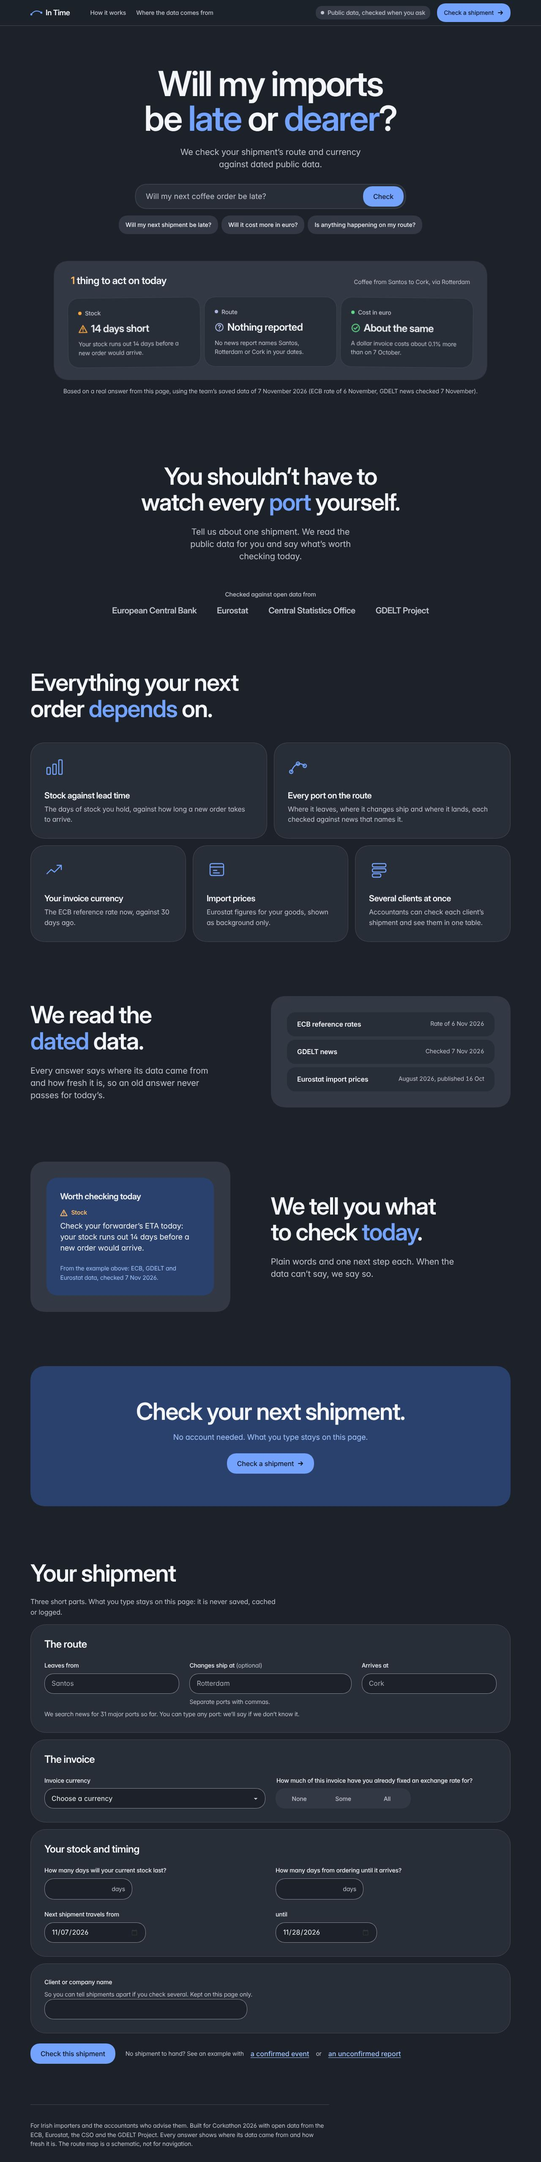
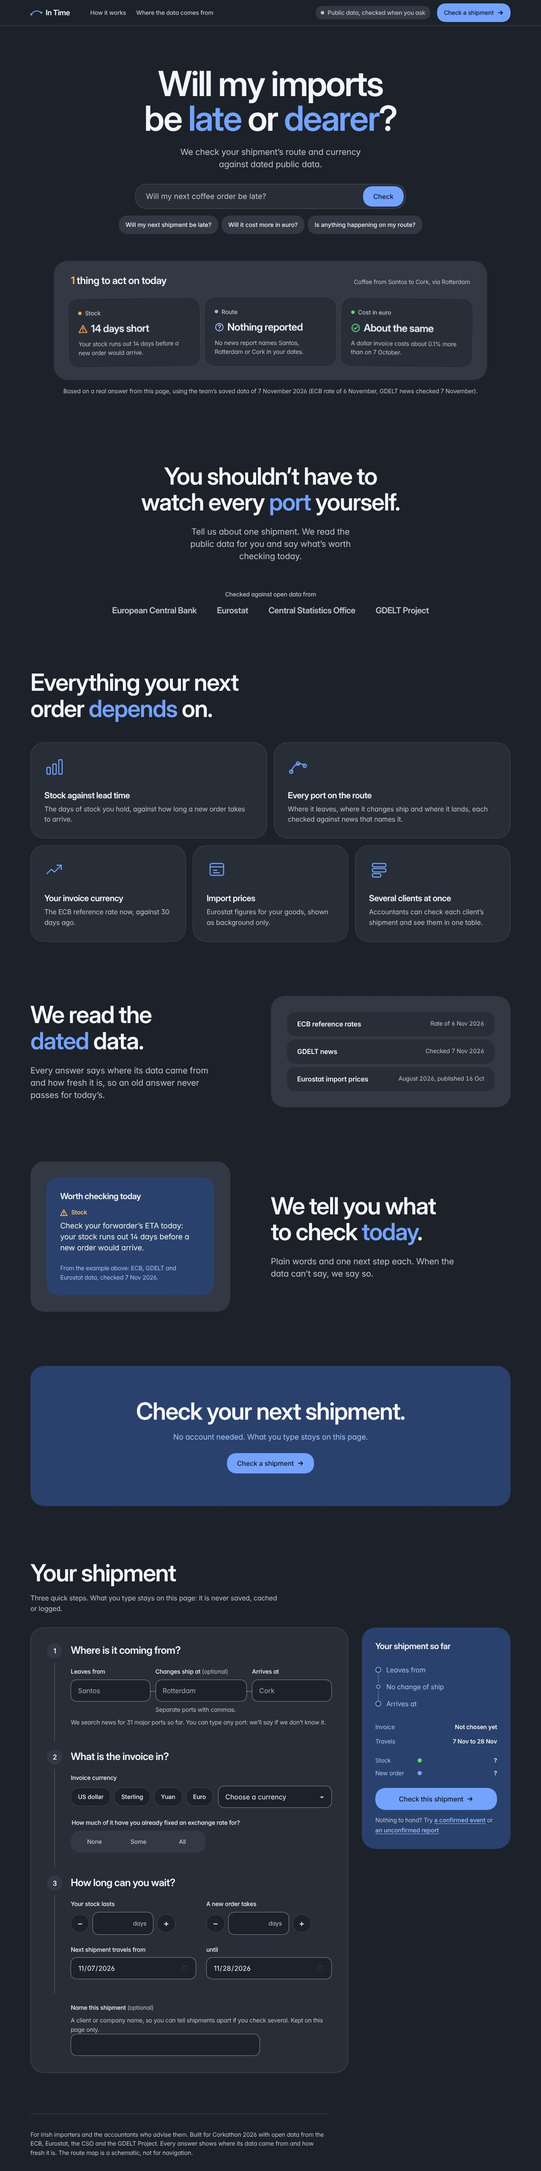
Rebuild the shipment form as three steps with a live shipment ticket
Khoa: the Check a shipment form was "still so rigid and all the components
look bad".
- Four stacked boxes become one card with three numbered steps joined by a
  line (route, invoice, timing); a step's number turns blue when it is done.
- A ticket beside the steps (below on phones) fills in as you type: the route
  as stops, invoice, travel dates, and stock against order time as two bars.
  The submit button and the example links move into it. Display only: the
  form stays the source of truth; the ticket is not a live region.
- Route stops are joined by dotted lines; quick chips for USD, GBP, CNY and
  EUR set the currency list; minus and plus buttons around the day fields.
- Fields are soft rounded rectangles (16px corners, 52px tall) instead of
  pills; the segmented control is 44px tall.
- Branch brought up to date with main (#38 to #45).

Checks: 132 tests OK; axe 0 violations at 1280 and 390, light and dark,
landing and answer; no console errors.

Claude-Session: https://claude.ai/code/session_01W2xLkForaTsgKoAT3qMgDq

diff --git a/web/index.html b/web/index.html
@@ -129,99 +129,126 @@
     </div>
 
     <div id="shipment" class="shipment">
-      <p class="sub">Three short parts. What you type stays on this page: it is never saved, cached or logged.</p>
+      <p class="sub">Three quick steps. What you type stays on this page: it is never saved, cached or logged.</p>
+      <div class="builder">
+        <div class="steps">
 
-      <fieldset class="group" id="g-route">
-        <legend>The route</legend>
-        <div class="rail">
-          <div class="field stop">
-            <label for="origin_port">Leaves from</label>
-            <span class="field-error" id="origin_port-error" hidden></span>
-            <input id="origin_port" name="origin_port" list="ports" autocomplete="off" aria-describedby="origin_port-error" placeholder="Santos">
-          </div>
-          <div class="field stop">
-            <label for="transshipment_ports">Changes ship at <span class="opt">(optional)</span></label>
-            <span class="field-error" id="transshipment_ports-error" hidden></span>
-            <input id="transshipment_ports" name="transshipment_ports" autocomplete="off" aria-describedby="transshipment_ports-hint transshipment_ports-error" placeholder="Rotterdam">
-            <span class="hint" id="transshipment_ports-hint">Separate ports with commas.</span>
-          </div>
-          <div class="field stop">
-            <label for="destination_port">Arrives at</label>
-            <span class="field-error" id="destination_port-error" hidden></span>
-            <input id="destination_port" name="destination_port" list="ports" autocomplete="off" aria-describedby="destination_port-error" placeholder="Cork">
-          </div>
-        </div>
-        <p class="hint" id="ports-note">We search news for 31 major ports so far. You can type any port: we’ll say if we don’t know it.</p>
+          <fieldset class="step" id="g-route">
+            <legend><span class="step-n" aria-hidden="true">1</span>Where is it coming from?</legend>
+            <div class="rail">
+              <div class="field stop">
+                <label for="origin_port">Leaves from</label>
+                <span class="field-error" id="origin_port-error" hidden></span>
+                <input id="origin_port" name="origin_port" list="ports" autocomplete="off" aria-describedby="origin_port-error" placeholder="Santos">
+              </div>
+              <div class="field stop stop-mid">
+                <label for="transshipment_ports">Changes ship at <span class="opt">(optional)</span></label>
+                <span class="field-error" id="transshipment_ports-error" hidden></span>
+                <input id="transshipment_ports" name="transshipment_ports" autocomplete="off" aria-describedby="transshipment_ports-hint transshipment_ports-error" placeholder="Rotterdam">
+                <span class="hint" id="transshipment_ports-hint">Separate ports with commas.</span>
+              </div>
+              <div class="field stop">
+                <label for="destination_port">Arrives at</label>
+                <span class="field-error" id="destination_port-error" hidden></span>
+                <input id="destination_port" name="destination_port" list="ports" autocomplete="off" aria-describedby="destination_port-error" placeholder="Cork">
+              </div>
+            </div>
+            <p class="hint" id="ports-note">We search news for 31 major ports so far. You can type any port: we’ll say if we don’t know it.</p>
         <datalist id="ports">
           <option value="Algeciras"></option><option value="Antwerp"></option><option value="Bremerhaven"></option><option value="Busan"></option><option value="Colombo"></option><option value="Cork"></option><option value="Dublin"></option><option value="Durban"></option><option value="Felixstowe"></option><option value="Hamburg"></option><option value="Ho Chi Minh City"></option><option value="Hong Kong"></option><option value="Jebel Ali"></option><option value="Le Havre"></option><option value="Liverpool"></option><option value="Los Angeles"></option><option value="Mombasa"></option><option value="New York"></option><option value="Nhava Sheva"></option><option value="Ningbo"></option><option value="Piraeus"></option><option value="Port Said"></option><option value="Ringaskiddy"></option><option value="Rotterdam"></option><option value="Santos"></option><option value="Savannah"></option><option value="Shanghai"></option><option value="Shenzhen"></option><option value="Singapore"></option><option value="Southampton"></option><option value="Valencia"></option>
         </datalist>
-      </fieldset>
+          </fieldset>
 
-      <fieldset class="group" id="g-money">
-        <legend>The invoice</legend>
-        <div class="cols">
-          <div class="field">
-            <label for="currency">Invoice currency</label>
-            <span class="field-error" id="currency-error" hidden></span>
-            <select id="currency" name="currency" aria-describedby="currency-error"><option value="">Choose a currency</option><option value="USD">US dollars (USD)</option><option value="GBP">Pounds sterling (GBP)</option><option value="CNY">Chinese yuan (CNY)</option><option value="JPY">Japanese yen (JPY)</option><option value="CHF">Swiss francs (CHF)</option><option value="EUR">Euro (EUR)</option><optgroup label="More ECB currencies"><option value="SEK">Swedish kronor (SEK)</option><option value="DKK">Danish kroner (DKK)</option><option value="NOK">Norwegian kroner (NOK)</option><option value="PLN">Polish zloty (PLN)</option><option value="CZK">Czech koruna (CZK)</option><option value="HUF">Hungarian forint (HUF)</option><option value="RON">Romanian leu (RON)</option><option value="CAD">Canadian dollars (CAD)</option><option value="AUD">Australian dollars (AUD)</option><option value="NZD">New Zealand dollars (NZD)</option><option value="INR">Indian rupees (INR)</option><option value="KRW">South Korean won (KRW)</option><option value="SGD">Singapore dollars (SGD)</option><option value="HKD">Hong Kong dollars (HKD)</option><option value="THB">Thai baht (THB)</option><option value="TRY">Turkish lira (TRY)</option><option value="BRL">Brazilian real (BRL)</option><option value="MXN">Mexican pesos (MXN)</option><option value="ZAR">South African rand (ZAR)</option></optgroup></select>
-          </div>
-          <fieldset class="field seg-wrap" id="fixed_rate_share" aria-describedby="fixed_rate_share-error">
-            <legend>How much of this invoice have you already fixed an exchange rate for?</legend>
-            <span class="field-error" id="fixed_rate_share-error" hidden></span>
-            <div class="seg">
-              <label><input type="radio" name="fixed_rate_share" value="none"><span>None</span></label>
-              <label><input type="radio" name="fixed_rate_share" value="some"><span>Some</span></label>
-              <label><input type="radio" name="fixed_rate_share" value="all"><span>All</span></label>
+          <fieldset class="step" id="g-money">
+            <legend><span class="step-n" aria-hidden="true">2</span>What is the invoice in?</legend>
+            <div class="field">
+              <label for="currency">Invoice currency</label>
+              <span class="field-error" id="currency-error" hidden></span>
+              <div class="cur-row">
+                <ul class="cur-quick" aria-label="Common currencies">
+                  <li><button type="button" class="cchip" data-cur="USD" aria-pressed="false">US dollar</button></li>
+                  <li><button type="button" class="cchip" data-cur="GBP" aria-pressed="false">Sterling</button></li>
+                  <li><button type="button" class="cchip" data-cur="CNY" aria-pressed="false">Yuan</button></li>
+                  <li><button type="button" class="cchip" data-cur="EUR" aria-pressed="false">Euro</button></li>
+                </ul>
+                <select id="currency" name="currency" aria-describedby="currency-error"><option value="">Choose a currency</option><option value="USD">US dollars (USD)</option><option value="GBP">Pounds sterling (GBP)</option><option value="CNY">Chinese yuan (CNY)</option><option value="JPY">Japanese yen (JPY)</option><option value="CHF">Swiss francs (CHF)</option><option value="EUR">Euro (EUR)</option><optgroup label="More ECB currencies"><option value="SEK">Swedish kronor (SEK)</option><option value="DKK">Danish kroner (DKK)</option><option value="NOK">Norwegian kroner (NOK)</option><option value="PLN">Polish zloty (PLN)</option><option value="CZK">Czech koruna (CZK)</option><option value="HUF">Hungarian forint (HUF)</option><option value="RON">Romanian leu (RON)</option><option value="CAD">Canadian dollars (CAD)</option><option value="AUD">Australian dollars (AUD)</option><option value="NZD">New Zealand dollars (NZD)</option><option value="INR">Indian rupees (INR)</option><option value="KRW">South Korean won (KRW)</option><option value="SGD">Singapore dollars (SGD)</option><option value="HKD">Hong Kong dollars (HKD)</option><option value="THB">Thai baht (THB)</option><option value="TRY">Turkish lira (TRY)</option><option value="BRL">Brazilian real (BRL)</option><option value="MXN">Mexican pesos (MXN)</option><option value="ZAR">South African rand (ZAR)</option></optgroup></select>
+              </div>
+            </div>
+            <fieldset class="field seg-wrap" id="fixed_rate_share" aria-describedby="fixed_rate_share-error">
+              <legend>How much of it have you already fixed an exchange rate for?</legend>
+              <span class="field-error" id="fixed_rate_share-error" hidden></span>
+              <div class="seg">
+                <label><input type="radio" name="fixed_rate_share" value="none"><span>None</span></label>
+                <label><input type="radio" name="fixed_rate_share" value="some"><span>Some</span></label>
+                <label><input type="radio" name="fixed_rate_share" value="all"><span>All</span></label>
+              </div>
+            </fieldset>
+            <div class="field" id="pct-field" hidden>
+              <label for="fixed_rate_pct">Roughly what share have you fixed?</label>
+              <span class="hint" id="fixed_rate_pct-hint">Optional, for example 50. Without it we can’t work out your euro cost.</span>
+              <span class="field-error" id="fixed_rate_pct-error" hidden></span>
+              <span class="suffix"><input id="fixed_rate_pct" name="fixed_rate_pct" inputmode="decimal" aria-describedby="fixed_rate_pct-hint fixed_rate_pct-error"><span aria-hidden="true">%</span></span>
             </div>
           </fieldset>
-        </div>
-        <div class="field" id="pct-field" hidden>
-          <label for="fixed_rate_pct">Roughly what share have you fixed?</label>
-          <span class="hint" id="fixed_rate_pct-hint">Optional, for example 50. Without it we can’t work out your euro cost.</span>
-          <span class="field-error" id="fixed_rate_pct-error" hidden></span>
-          <span class="suffix"><input id="fixed_rate_pct" name="fixed_rate_pct" inputmode="decimal" aria-describedby="fixed_rate_pct-hint fixed_rate_pct-error"><span aria-hidden="true">%</span></span>
-        </div>
-      </fieldset>
 
-      <fieldset class="group" id="g-time">
-        <legend>Your stock and timing</legend>
-        <div class="cols">
-          <div class="field">
-            <label for="stock_days">How many days will your current stock last?</label>
-            <span class="field-error" id="stock_days-error" hidden></span>
-            <span class="suffix"><input id="stock_days" name="stock_days" inputmode="numeric" aria-describedby="stock_days-error"><span aria-hidden="true">days</span></span>
-          </div>
-          <div class="field">
-            <label for="lead_time_days">How many days from ordering until it arrives?</label>
-            <span class="field-error" id="lead_time_days-error" hidden></span>
-            <span class="suffix"><input id="lead_time_days" name="lead_time_days" inputmode="numeric" aria-describedby="lead_time_days-error"><span aria-hidden="true">days</span></span>
-          </div>
-          <div class="field">
-            <label for="window_start">Next shipment travels from</label>
-            <span class="field-error" id="window_start-error" hidden></span>
-            <input id="window_start" name="window_start" type="date" aria-describedby="window_start-error">
-          </div>
-          <div class="field">
-            <label for="window_end">until</label>
-            <span class="field-error" id="window_end-error" hidden></span>
-            <input id="window_end" name="window_end" type="date" aria-describedby="window_end-error">
+          <fieldset class="step" id="g-time">
+            <legend><span class="step-n" aria-hidden="true">3</span>How long can you wait?</legend>
+            <div class="pair">
+              <div class="field">
+                <label for="stock_days">Your stock lasts</label>
+                <span class="field-error" id="stock_days-error" hidden></span>
+                <span class="stepper"><button type="button" class="stp" data-step="-1" data-for="stock_days" aria-label="One day less stock">−</button><span class="suffix"><input id="stock_days" name="stock_days" inputmode="numeric" aria-describedby="stock_days-error"><span aria-hidden="true">days</span></span><button type="button" class="stp" data-step="1" data-for="stock_days" aria-label="One day more stock">+</button></span>
+              </div>
+              <div class="field">
+                <label for="lead_time_days">A new order takes</label>
+                <span class="field-error" id="lead_time_days-error" hidden></span>
+                <span class="stepper"><button type="button" class="stp" data-step="-1" data-for="lead_time_days" aria-label="One day shorter order time">−</button><span class="suffix"><input id="lead_time_days" name="lead_time_days" inputmode="numeric" aria-describedby="lead_time_days-error"><span aria-hidden="true">days</span></span><button type="button" class="stp" data-step="1" data-for="lead_time_days" aria-label="One day longer order time">+</button></span>
+              </div>
+            </div>
+            <div class="pair dates">
+              <div class="field">
+                <label for="window_start">Next shipment travels from</label>
+                <span class="field-error" id="window_start-error" hidden></span>
+                <input id="window_start" name="window_start" type="date" aria-describedby="window_start-error">
+              </div>
+              <div class="field">
+                <label for="window_end">until</label>
+                <span class="field-error" id="window_end-error" hidden></span>
+                <input id="window_end" name="window_end" type="date" aria-describedby="window_end-error">
+              </div>
+            </div>
+          </fieldset>
+
+          <div class="step step-name">
+            <div class="field name-field">
+              <label for="importer">Name this shipment <span class="opt">(optional)</span></label>
+              <span class="hint" id="importer-hint">A client or company name, so you can tell shipments apart if you check several. Kept on this page only.</span>
+              <span class="field-error" id="importer-error" hidden></span>
+              <input id="importer" name="importer" autocomplete="organization" aria-describedby="importer-hint importer-error">
+            </div>
           </div>
         </div>
-      </fieldset>
 
-      <div class="field name-field">
-        <label for="importer">Client or company name</label>
-        <span class="hint" id="importer-hint">So you can tell shipments apart if you check several. Kept on this page only.</span>
-        <span class="field-error" id="importer-error" hidden></span>
-        <input id="importer" name="importer" autocomplete="organization" aria-describedby="importer-hint importer-error">
-      </div>
-
-      <div class="actions">
-        <button type="submit" class="btn" id="submit">Check this shipment</button>
-        <span class="or">No shipment to hand? See an example with</span>
-        <button type="button" class="linkbtn" data-example="alert">a confirmed event</button>
-        <span class="or">or</span>
-        <button type="button" class="linkbtn" data-example="insufficient">an unconfirmed report</button>
+        <aside class="ticket" aria-labelledby="ticket-h">
+          <h3 id="ticket-h" class="ticket-h">Your shipment so far</h3>
+          <ol class="t-route" id="t-route" aria-label="Route">
+            <li data-k="origin_port"><span class="t-dot" aria-hidden="true"></span><span class="t-port" data-empty="Leaves from">Leaves from</span></li>
+            <li data-k="transshipment_ports" class="t-mid"><span class="t-dot" aria-hidden="true"></span><span class="t-port" data-empty="No change of ship">No change of ship</span></li>
+            <li data-k="destination_port"><span class="t-dot" aria-hidden="true"></span><span class="t-port" data-empty="Arrives at">Arrives at</span></li>
+          </ol>
+          <dl class="t-facts">
+            <div><dt>Invoice</dt><dd id="t-money">Not chosen yet</dd></div>
+            <div><dt>Travels</dt><dd id="t-dates">Not set yet</dd></div>
+          </dl>
+          <div class="t-runway" aria-hidden="true">
+            <div class="t-bar"><span class="t-bar-label">Stock</span><span class="t-fill t-stock" id="t-stock"></span><span class="t-val" id="t-stock-v">?</span></div>
+            <div class="t-bar"><span class="t-bar-label">New order</span><span class="t-fill t-lead" id="t-lead"></span><span class="t-val" id="t-lead-v">?</span></div>
+          </div>
+          <div class="actions">
+            <button type="submit" class="btn" id="submit">Check this shipment<svg viewBox="0 0 16 16" aria-hidden="true" focusable="false"><path d="M3 8h10M9 4l4 4-4 4"/></svg></button>
+            <p class="t-try"><span class="or">Nothing to hand? Try</span> <button type="button" class="linkbtn" data-example="alert">a confirmed event</button> <span class="or">or</span> <button type="button" class="linkbtn" data-example="insufficient">an unconfirmed report</button></p>
+          </div>
+        </aside>
       </div>
     </div>
     <p class="status" id="status" role="status" aria-live="polite"></p>

diff --git a/web/styles.css b/web/styles.css
@@ -199,14 +199,8 @@ h1{font-size:var(--text-6xl);line-height:1;letter-spacing:-.035em;max-width:13ch
 #ship-line dt{font-size:var(--text-xs);color:var(--muted-foreground);font-weight:500}
 #ship-line dd{margin:0;font-size:var(--text-sm);font-weight:600}
 
-.shipment{margin-top:var(--s-5);display:grid;gap:var(--s-4)}
+.shipment{margin-top:var(--s-4);display:grid;gap:var(--s-6)}
 .sub{margin:0;font-size:var(--text-base);color:var(--muted-foreground);max-width:60ch}
-.group{margin:0;min-width:0;border:1px solid var(--border);border-radius:var(--r-card-lg);background:var(--card);padding:var(--s-6);box-shadow:var(--shadow-1)}
-.group>legend{float:left;width:100%;padding:0;margin-bottom:var(--s-5);font:600 var(--text-2xl)/1.2 var(--font-display);letter-spacing:-.02em}
-.group>legend+*{clear:both}
-@media(max-width:640px){.group{padding:var(--s-5);border-radius:var(--r-card)}}
-.rail{display:grid;gap:var(--s-4)}
-@media(min-width:820px){.rail{grid-template-columns:1fr 1.2fr 1fr;gap:var(--s-5)}}
 .cols{display:grid;gap:var(--s-5)}
 @media(min-width:820px){.cols{grid-template-columns:1fr 1fr}}
 .field{margin:0;min-width:0}
@@ -214,7 +208,7 @@ fieldset.field{border:0;padding:0}
 label,.field>legend{display:block;font-weight:500;font-size:var(--text-sm);margin-bottom:var(--s-2)}
 .opt{font-weight:400;color:var(--muted-foreground)}
 .hint{display:block;color:var(--muted-foreground);font-size:var(--text-sm);margin:var(--s-2) 0 0}
-input,select{font:inherit;color:var(--foreground);background:var(--background);border:1px solid var(--input);border-radius:var(--pill);padding:0 var(--s-4);min-height:var(--h-lg);width:100%;transition:border-color var(--dur-1) var(--ease),box-shadow var(--dur-1) var(--ease)}
+input,select{font:inherit;color:var(--foreground);background:var(--background);border:1px solid var(--input);border-radius:var(--r-field);padding:0 var(--s-4);min-height:52px;width:100%;transition:border-color var(--dur-1) var(--ease),box-shadow var(--dur-1) var(--ease)}
 input::placeholder{color:var(--muted-foreground);opacity:.85}
 input:hover,select:hover{border-color:var(--muted-foreground)}
 input:focus-visible,select:focus-visible{outline:0;border-color:var(--ring);box-shadow:0 0 0 3px oklch(from var(--ring) l c h / .3)}
@@ -223,13 +217,11 @@ select{appearance:none;cursor:pointer;background-image:linear-gradient(45deg,tra
 option,optgroup{background:var(--card);color:var(--foreground)}
 input[type=date]{max-width:15rem}
 @media (prefers-color-scheme:dark){::-webkit-calendar-picker-indicator{filter:invert(.8)}}
-.suffix{display:flex;align-items:center;gap:var(--s-2);max-width:13rem;border:1px solid var(--input);border-radius:var(--pill);background:var(--background);padding-right:var(--s-4);corner-shape:var(--corner-shape);transition:border-color var(--dur-1) var(--ease),box-shadow var(--dur-1) var(--ease)}
+.suffix{display:flex;align-items:center;gap:var(--s-2);max-width:13rem;border:1px solid var(--input);border-radius:var(--r-field);background:var(--background);padding-right:var(--s-4);corner-shape:var(--corner-shape);transition:border-color var(--dur-1) var(--ease),box-shadow var(--dur-1) var(--ease)}
 .suffix:hover{border-color:var(--muted-foreground)}
 .suffix:focus-within{border-color:var(--ring);box-shadow:0 0 0 3px oklch(from var(--ring) l c h / .3)}
 .suffix input{border:0;background:transparent;box-shadow:none!important;min-width:0}
 .suffix span{color:var(--muted-foreground);font-size:var(--text-sm)}
-.name-field{background:var(--card);border:1px solid var(--border);border-radius:var(--r-card-lg);padding:var(--s-6);box-shadow:var(--shadow-1)}
-.name-field input{max-width:30rem}
 
 /* Tabs-style segmented control: a filled pill that glides on a soft bar (CSS only) */
 .seg{position:relative;display:inline-grid;grid-template-columns:repeat(3,minmax(0,1fr));background:var(--secondary);border-radius:var(--pill);padding:var(--s-1);min-width:min(100%,20rem)}
@@ -239,7 +231,7 @@ input[type=date]{max-width:15rem}
 .seg:has(label:nth-child(3) input:checked)::before{transform:translateX(200%)}
 .seg label{position:relative;z-index:1;margin:0;font-weight:500;cursor:pointer}
 .seg input{position:absolute;inset:0;opacity:0;width:100%;height:100%;margin:0;min-height:0;cursor:pointer}
-.seg span{display:grid;place-items:center;min-height:40px;padding:0 var(--s-4);border-radius:var(--pill);color:var(--muted-foreground);transition:color var(--dur-2) var(--ease)}
+.seg span{display:grid;place-items:center;min-height:44px;padding:0 var(--s-4);border-radius:var(--pill);color:var(--muted-foreground);transition:color var(--dur-2) var(--ease)}
 .seg input:checked+span{color:var(--foreground);font-weight:600}
 .seg input:focus-visible+span{outline:2px solid var(--ring);outline-offset:1px}
 .seg label:hover input:not(:checked)+span{color:var(--foreground)}
@@ -633,3 +625,79 @@ h1 em,.section-h em{font-style:normal;color:var(--brand)}
 .dp-foot{margin:var(--s-5) 0 0;font-size:var(--text-sm);color:var(--dp-muted)}
 .cta{display:flex;flex-direction:column;align-items:center;gap:var(--s-4);text-align:center;padding:clamp(var(--s-7),6vw,var(--s-9)) var(--s-5);border-radius:var(--r-card-lg);corner-shape:var(--corner-shape)}
 .cta p{margin:0 0 var(--s-2);color:var(--dp-muted);font-size:var(--text-lg)}
+
+/* ---------- Shipment builder: three numbered steps on the left, a live shipment ticket on the right ----------
+   Replaces four stacked boxes. Steps sit on one card joined by a thin line; the ticket fills in as you type. */
+.builder{display:grid;gap:var(--s-5);align-items:start}
+@media(min-width:1000px){.builder{grid-template-columns:minmax(0,1fr) 22rem;gap:var(--s-6)}}
+.steps{position:relative;display:grid;gap:var(--s-2);padding:clamp(var(--s-5),3vw,var(--s-7));background:var(--card);border:1px solid var(--border);border-radius:var(--r-card-lg);box-shadow:var(--shadow-2);corner-shape:var(--corner-shape)}
+.step{position:relative;margin:0;min-width:0;border:0;padding:0 0 var(--s-7) 56px}
+.step:last-child{padding-bottom:0}
+.step::before{content:"";position:absolute;left:17px;top:44px;bottom:var(--s-3);width:2px;border-radius:2px;background:var(--border)}
+.step:last-child::before{display:none}
+.step:focus-within::before,.step.done::before{background:color-mix(in oklch,var(--brand) 55%,var(--border))}
+.step>legend{float:left;width:100%;padding:0;margin:0 0 var(--s-5);font:600 var(--text-2xl)/1.25 var(--font-display);letter-spacing:-.02em}
+.step>legend+*{clear:both}
+.step-n{position:absolute;left:0;top:-2px;display:grid;place-items:center;width:36px;height:36px;border-radius:50%;background:var(--secondary);color:var(--foreground);font:600 var(--text-base)/1 var(--font-sans);transition:background var(--dur-2) var(--ease),color var(--dur-2) var(--ease)}
+.step:focus-within .step-n,.step.done .step-n{background:var(--primary);color:var(--primary-foreground)}
+@media(max-width:640px){.step{padding-left:0}.step::before{display:none}.step-n{position:static;display:inline-grid;width:30px;height:30px;margin-right:var(--s-3);vertical-align:2px;font-size:var(--text-sm)}}
+.step-name{padding-bottom:0}
+.step-name input{max-width:28rem}
+
+/* Route: three stops joined by a dotted line */
+.rail{display:grid;gap:var(--s-4)}
+@media(min-width:760px){.rail{grid-template-columns:1fr 1.15fr 1fr;gap:var(--s-3)}
+  .stop{position:relative}
+  .stop:not(:last-child)::after{content:"";position:absolute;right:calc(-1 * var(--s-3));top:calc(var(--s-2) + 1.4em + 26px);width:var(--s-3);border-top:2px dotted var(--input)}}
+.step .field+.field,.step .field+fieldset.field,.step fieldset.field+.field{margin-top:var(--s-5)}
+.rail .field+.field{margin-top:0}
+
+/* Currency: quick chips beside the full list */
+.cur-row{display:flex;flex-wrap:wrap;align-items:center;gap:var(--s-2) var(--s-3)}
+.cur-quick{list-style:none;display:flex;flex-wrap:wrap;gap:var(--s-2);margin:0;padding:0}
+.cchip{font:500 var(--text-sm)/1 var(--font-sans);min-height:44px;padding:0 var(--s-4);border:1px solid var(--border);border-radius:var(--pill);background:var(--background);color:var(--foreground);cursor:pointer;transition:background var(--dur-1) var(--ease),border-color var(--dur-1) var(--ease),transform var(--dur-1) var(--ease);corner-shape:var(--corner-shape)}
+.cchip:hover{border-color:var(--input)}
+.cchip:active{transform:scale(.96)}
+.cchip[aria-pressed=true]{background:var(--brand-soft);border-color:var(--brand);color:var(--brand-ink);font-weight:600}
+.cur-row select{flex:1 1 14rem;width:auto;min-width:12rem}
+
+/* Days: − and + around the number */
+.pair{display:grid;gap:var(--s-5)}
+@media(min-width:640px){.pair{grid-template-columns:1fr 1fr}}
+.pair+.pair{margin-top:var(--s-5)}
+.pair .field+.field{margin-top:0}
+.stepper{display:inline-flex;align-items:center;gap:var(--s-2)}
+.stepper .suffix{max-width:9rem}
+.stepper .suffix input{text-align:center;font-variant-numeric:tabular-nums;font-weight:600;font-size:var(--text-lg)}
+.stp{display:grid;place-items:center;width:44px;height:44px;flex:none;border:1px solid var(--border);border-radius:50%;background:var(--background);color:var(--foreground);font:500 var(--text-xl)/1 var(--font-sans);cursor:pointer;transition:background var(--dur-1) var(--ease),transform var(--dur-1) var(--ease)}
+.stp:hover{background:var(--secondary)}
+.stp:active{transform:scale(.92)}
+.dates input[type=date]{max-width:none}
+
+/* The ticket: a live summary in the soft brand tint; sticks beside the steps on wide screens */
+.ticket{display:grid;gap:var(--s-5);padding:var(--s-6);background:var(--brand-soft);border-radius:var(--r-card-lg);corner-shape:var(--corner-shape)}
+@media(min-width:1000px){.ticket{position:sticky;top:84px}}
+.ticket-h{font:600 var(--text-xl)/1.2 var(--font-display);letter-spacing:-.02em}
+.t-route{list-style:none;margin:0;padding:0;display:grid;gap:0}
+.t-route li{position:relative;display:flex;align-items:center;gap:var(--s-3);min-height:40px}
+.t-route li:not(:last-child)::after{content:"";position:absolute;left:6px;top:28px;bottom:-12px;width:2px;background:color-mix(in oklch,var(--brand) 40%,transparent)}
+.t-dot{width:14px;height:14px;flex:none;border-radius:50%;border:2px solid var(--brand);background:var(--card);transition:background var(--dur-2) var(--ease),transform 400ms var(--ease-spring)}
+.t-mid .t-dot{width:10px;height:10px;margin-inline:2px}
+.t-route li.set .t-dot{background:var(--brand)}
+.t-port{font-weight:600;color:var(--foreground)}
+.t-route li:not(.set) .t-port{font-weight:400;color:var(--brand-ink)}
+@media (prefers-reduced-motion:no-preference){.t-route li.pop .t-dot{transform:scale(1.35)}}
+.t-facts{margin:0;display:grid;gap:var(--s-3)}
+.t-facts div{display:flex;justify-content:space-between;gap:var(--s-4)}
+.t-facts dt{color:var(--brand-ink);font-size:var(--text-sm)}
+.t-facts dd{margin:0;font-weight:600;font-size:var(--text-sm);text-align:right}
+.t-runway{display:grid;gap:var(--s-2)}
+.t-bar{display:grid;grid-template-columns:5.5rem 1fr auto;align-items:center;gap:var(--s-3);font-size:var(--text-sm)}
+.t-bar-label{color:var(--brand-ink)}
+.t-fill{display:block;height:10px;width:var(--w,0%);min-width:10px;border-radius:var(--pill);background:var(--data);transition:width 500ms var(--ease-spring)}
+.t-lead{background:var(--brand)}
+.t-val{font-weight:600;font-variant-numeric:tabular-nums;min-width:4.5em;text-align:right}
+.ticket .actions{display:grid;gap:var(--s-3);padding:0}
+.ticket .actions .btn{width:100%;margin:0;min-height:52px}
+.t-try{margin:0;font-size:var(--text-sm);line-height:1.6}
+.t-try .linkbtn{font-size:var(--text-sm);min-height:24px;padding:0}

diff --git a/web/app.js b/web/app.js
@@ -66,7 +66,51 @@
     FIELDS.forEach(function (k) { form[k].value = o[k] || ""; });
     form.querySelectorAll("input[name=fixed_rate_share]").forEach(function (r) { r.checked = r.value === o.fixed_rate_share; });
     $("pct-field").hidden = o.fixed_rate_share !== "some";
+    ticket();
   }
+
+  // ---------- The live shipment ticket beside the form (display only; the form stays the source of truth) ----------
+  var CUR_NAMES = { USD: "US dollars", GBP: "Sterling", CNY: "Yuan", EUR: "Euro", JPY: "Yen", CHF: "Swiss francs" };
+  function shortDate(v) { return v ? new Date(v + "T12:00:00Z").toLocaleDateString("en-IE", { day: "numeric", month: "short", timeZone: UK }) : ""; }
+  function ticket() {
+    if (!$("t-route")) return;
+    $("t-route").querySelectorAll("li").forEach(function (li) {
+      var k = li.getAttribute("data-k"), v = (form[k].value || "").trim(), port = li.querySelector(".t-port");
+      var was = li.classList.contains("set");
+      li.classList.toggle("set", !!v);
+      port.textContent = v || port.getAttribute("data-empty");
+      if (v && !was) { li.classList.add("pop"); setTimeout(function () { li.classList.remove("pop"); }, 260); }
+    });
+    var cur = form.currency.value, share = (form.querySelector("input[name=fixed_rate_share]:checked") || {}).value;
+    var shareTxt = { none: "none fixed", some: "some fixed", all: "all fixed" }[share];
+    $("t-money").textContent = cur ? (CUR_NAMES[cur] || cur) + (shareTxt ? ", " + shareTxt : "") : "Not chosen yet";
+    document.querySelectorAll(".cchip").forEach(function (b) { b.setAttribute("aria-pressed", b.getAttribute("data-cur") === cur ? "true" : "false"); });
+    var a = shortDate(form.window_start.value), b2 = shortDate(form.window_end.value);
+    $("t-dates").textContent = a && b2 ? a + " to " + b2 : a || b2 || "Not set yet";
+    var sd = parseInt(form.stock_days.value, 10), ld = parseInt(form.lead_time_days.value, 10), top = Math.max(sd || 0, ld || 0, 1);
+    [["t-stock", sd], ["t-lead", ld]].forEach(function (x) {
+      var ok = isFinite(x[1]) && x[1] >= 0;
+      $(x[0]).style.setProperty("--w", ok ? Math.round(x[1] / top * 100) + "%" : "0%");
+      $(x[0] + "-v").textContent = ok ? x[1] + (x[1] === 1 ? " day" : " days") : "?";
+    });
+    ["g-route", "g-money", "g-time"].forEach(function (id, i) {
+      var done = i === 0 ? !!(form.origin_port.value.trim() && form.destination_port.value.trim())
+        : i === 1 ? !!(cur && share) : !!(form.stock_days.value && form.lead_time_days.value && form.window_start.value && form.window_end.value);
+      $(id).classList.toggle("done", done);
+    });
+  }
+  form.addEventListener("input", ticket);
+  form.addEventListener("change", ticket);
+  document.querySelectorAll(".cchip").forEach(function (b) {
+    b.addEventListener("click", function () { form.currency.value = b.getAttribute("data-cur"); form.currency.dispatchEvent(new Event("change", { bubbles: true })); });
+  });
+  document.querySelectorAll(".stp").forEach(function (b) {
+    b.addEventListener("click", function () {
+      var f = form[b.getAttribute("data-for")], v = parseInt(f.value, 10);
+      f.value = String(Math.max(0, (isFinite(v) ? v : 0) + parseInt(b.getAttribute("data-step"), 10)));
+      f.dispatchEvent(new Event("input", { bubbles: true }));
+    });
+  });
 
   function showErrors(errs) {
     var list = $("error-list"); list.replaceChildren();
@@ -93,6 +137,7 @@
     if (!form.window_start.value) form.window_start.value = iso(t);
     if (!form.window_end.value) form.window_end.value = iso(new Date(t.getTime() + 21 * 864e5));
   })();
+  ticket();
 
   // ---------- Question ----------
   // Keyword match only: it picks which answer leads. It is not a chatbot.
